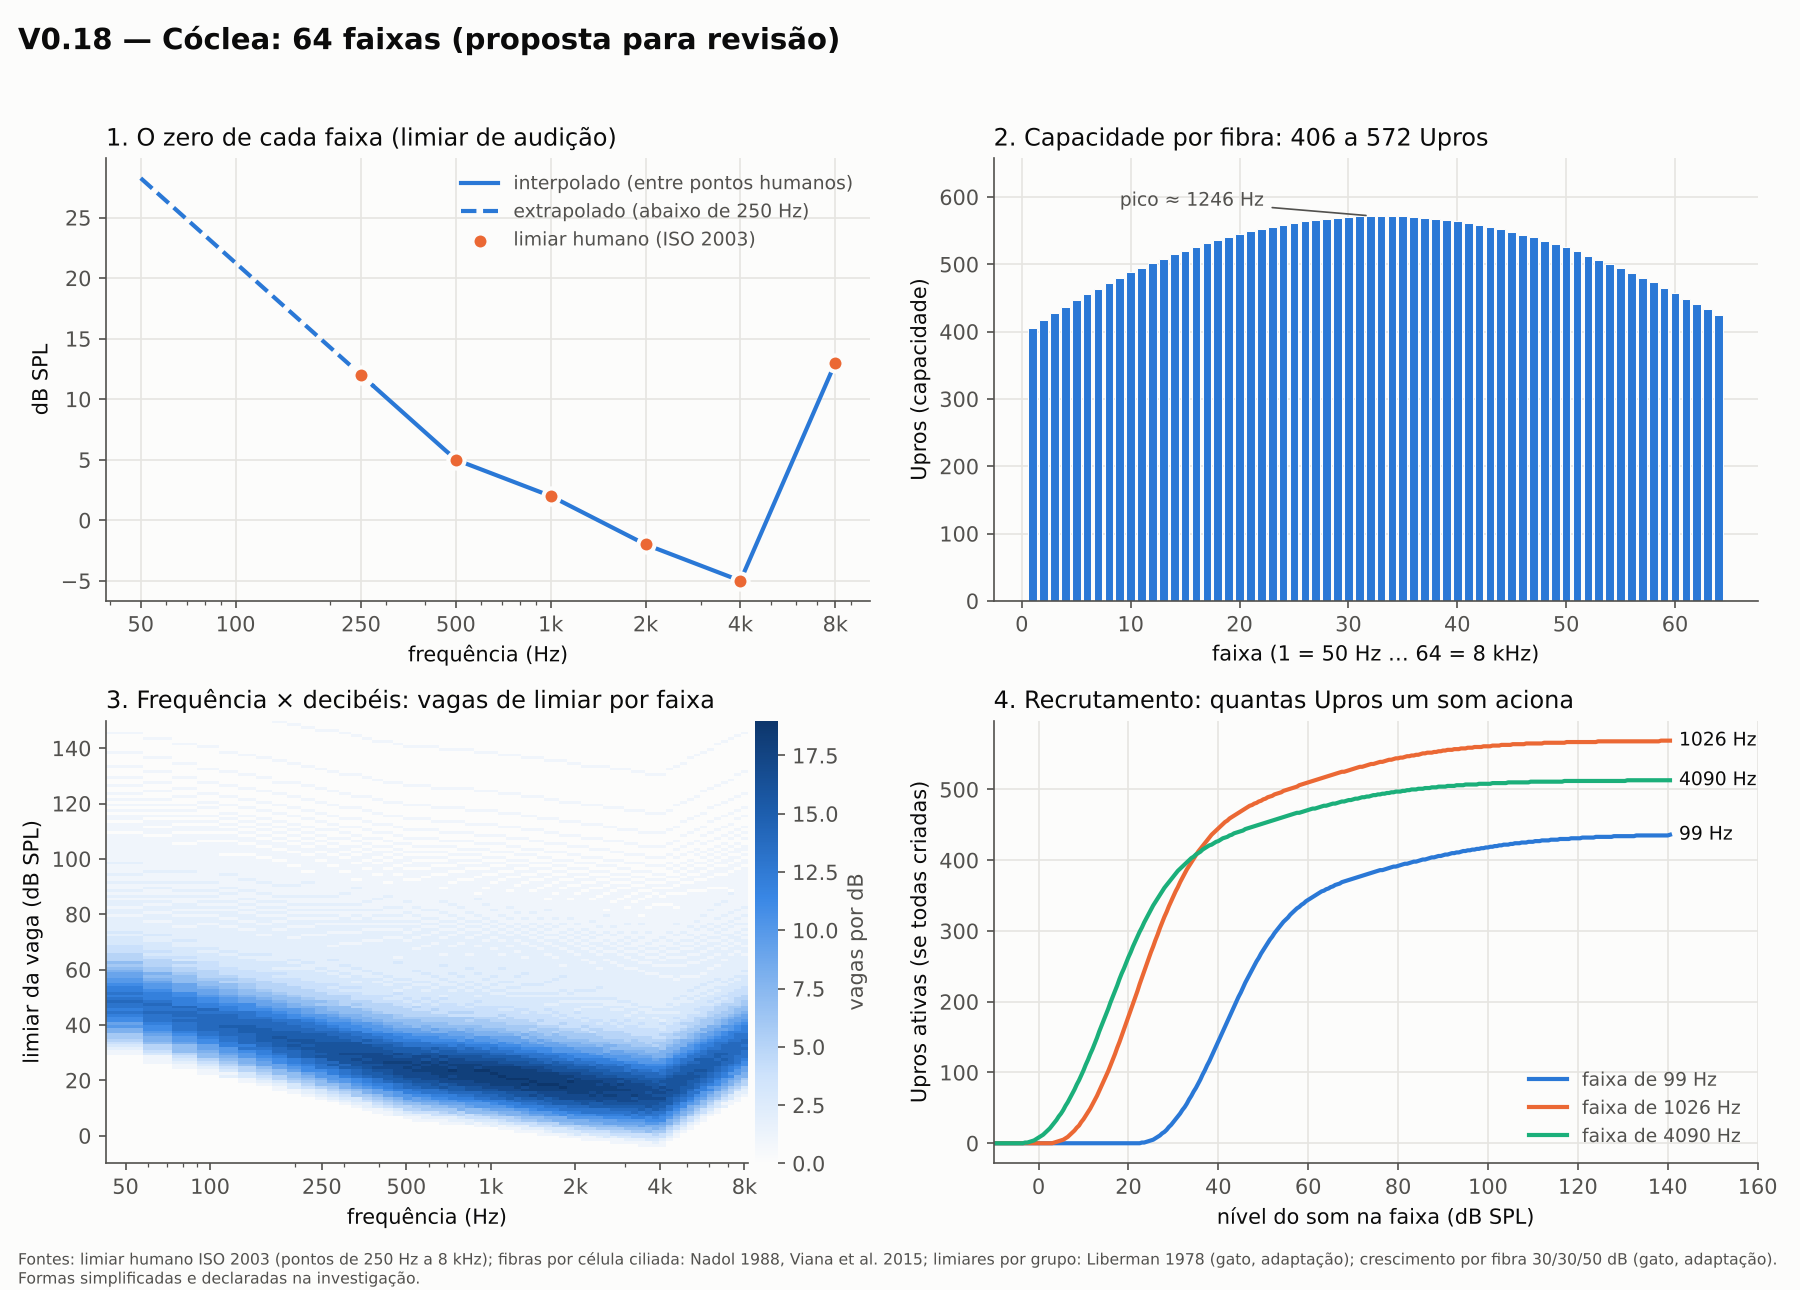
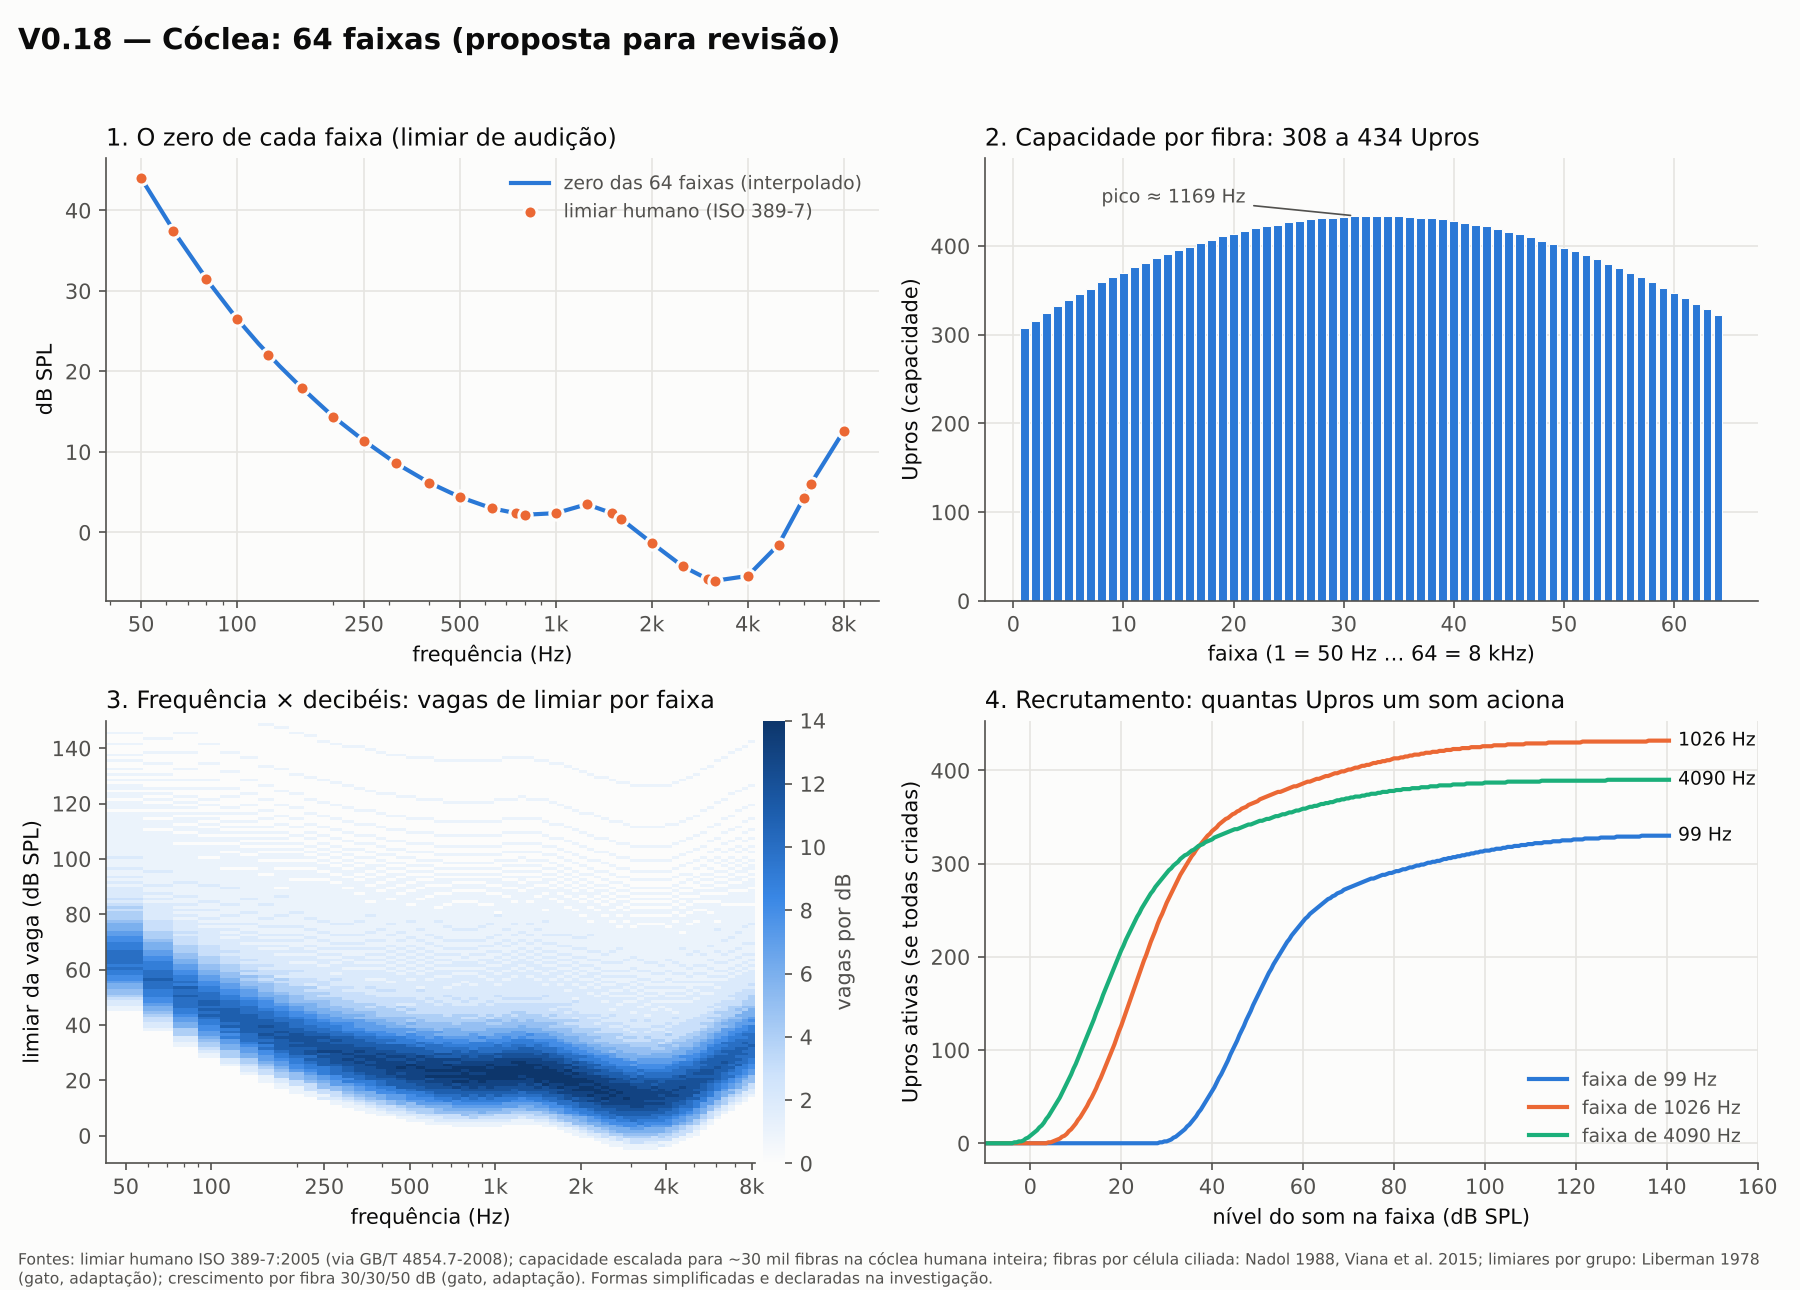
V0.18: zero pela tabela completa ISO 389-7; capacidade escalada a ≤ humano (308–434 por faixa)
Claude-Session: https://claude.ai/code/session_01NayBms6mB3fGg7oVZYfh6B

diff --git a/toy-experiments/v18/tabela_faixas.py b/toy-experiments/v18/tabela_faixas.py
@@ -14,20 +14,25 @@ Einv = lambda e: (10 ** (e / 21.4) - 1) * 1000 / 4.37
 ec = np.linspace(E(50), E(8000), 64); fc = Einv(ec)
 step = ec[1] - ec[0]; fe = Einv(np.concatenate(([ec[0] - step / 2], (ec[:-1] + ec[1:]) / 2, [ec[-1] + step / 2])))
 
-# --- zero de cada faixa: limiar humano (ISO 2003, tabela reproduzida em GreenFacts): interpolação em log da frequência;
-#     abaixo de 250 Hz, extrapolação linear com a inclinação de 250-500 Hz (perda declarada; provavelmente subestima)
-fiso = np.array([250, 500, 1000, 2000, 4000, 8000.0]); tiso = np.array([12, 5, 2, -2, -5, 13.0])
+# --- zero de cada faixa: limiar humano de referência em campo livre (ISO 389-7:2005, reproduzido de forma idêntica na
+#     GB/T 4854.7-2008, tabela 1; valores lidos por OCR, não conferidos com o original), interpolado em log da frequência
+fiso = np.array([20, 25, 31.5, 40, 50, 63, 80, 100, 125, 160, 200, 250, 315, 400, 500, 630, 750, 800, 1000, 1250, 1500, 1600, 2000,
+                 2500, 3000, 3150, 4000, 5000, 6000, 6300, 8000, 9000, 10000, 11200, 12500, 14000, 16000.0])
+tiso = np.array([78.5, 68.7, 59.5, 51.1, 44.0, 37.5, 31.5, 26.5, 22.1, 17.9, 14.4, 11.4, 8.6, 6.2, 4.4, 3.0, 2.4, 2.2, 2.4, 3.5, 2.4, 1.7, -1.3,
+                 -4.2, -5.8, -6.0, -5.4, -1.5, 4.3, 6.0, 12.6, 13.9, 13.9, 13.0, 12.3, 18.4, 40.2])
 lf = np.log2(fc)
 zero = np.interp(lf, np.log2(fiso), tiso)
-inc = (tiso[1] - tiso[0]) / (np.log2(500) - np.log2(250)); baixo = fc < 250
-zero[baixo] = tiso[0] + inc * (lf[baixo] - np.log2(250))
+baixo = np.zeros(64, bool)   # sem extrapolação: 50 Hz a 8 kHz estão dentro da tabela
 
 # --- capacidade: posição na cóclea (Greenwood 1990, humano: f = 165,4·(10^(2,1x) − 0,88); constantes de memória, padrão da área)
 X = lambda f: np.log10(f / 165.4 + 0.88) / 2.1
 dx = np.diff(X(fe)); xc = X(fc)
 ihc = 3500 * dx                                     # ~3.000-3.500 células ciliadas internas, densidade suposta uniforme
 porcel = 6.5 + (14 - 6.5) * np.sin(np.pi * xc)      # 6,5 nas pontas, 14 no meio (Nadol 1988; Viana et al. 2015); forma suposta
-cap = np.round(ihc * porcel).astype(int)
+# escala: "podemos ter menos que o humano, não mais" -> normaliza para ~30.000 fibras na cóclea humana inteira
+xs = np.linspace(0, 1, 100001); total_inteira = 3500 * np.mean(6.5 + (14 - 6.5) * np.sin(np.pi * xs))
+escala = min(1.0, 30000 / total_inteira)
+cap = np.floor(ihc * porcel * escala).astype(int)
 
 # --- vagas de limiar dentro da faixa (decisão B: limiares ⊛ crescimento de cada fibra); formas realistas + S, 30/30/50 dB
 dd = 0.01; x = np.arange(-20, 160, dd)
@@ -47,7 +52,7 @@ with open("tabela-faixas.csv", "w", newline="") as fh:
     for i in range(64):
         v = vagas(cap[i]) + zero[i]
         w.writerow([i + 1, round(fc[i], 1), round(zero[i], 1), "extrapolado" if baixo[i] else "interpolado", round(ihc[i], 1), round(porcel[i], 1), cap[i], round(v.min(), 1), round(v.max(), 1)])
-print("capacidade: mín", cap.min(), "máx", cap.max(), "total por ouvido", cap.sum(), "| zero: mín", round(zero.min(), 1), "máx", round(zero.max(), 1))
+print("escala", round(escala, 3), "| capacidade: mín", cap.min(), "máx", cap.max(), "total por ouvido", cap.sum(), "| zero: mín", round(zero.min(), 1), "máx", round(zero.max(), 1))
 
 # --- figura (paleta de referência: azul série 1, laranja série 2, aqua série 3; texto em tinta neutra)
 B1, O2, A3, TXT, TX2, GRID, SURF = "#2a78d6", "#eb6834", "#1baf7a", "#0b0b0b", "#52514e", "#e6e5e1", "#fcfcfb"
@@ -58,9 +63,9 @@ for a in ax.flat: a.set_facecolor(SURF); a.grid(True, color=GRID, lw=0.8); a.set
 tk = [50, 100, 250, 500, 1000, 2000, 4000, 8000]; tl = ["50", "100", "250", "500", "1k", "2k", "4k", "8k"]
 
 a = ax[0, 0]
-a.plot(fc[~baixo], zero[~baixo], color=B1, lw=2, label="interpolado (entre pontos humanos)")
-a.plot(fc[baixo | (np.roll(baixo, 1))], zero[baixo | (np.roll(baixo, 1))], color=B1, lw=2, ls="--", label="extrapolado (abaixo de 250 Hz)")
-a.scatter(fiso, tiso, s=60, color=O2, zorder=3, edgecolor=SURF, lw=2, label="limiar humano (ISO 2003)")
+a.plot(fc, zero, color=B1, lw=2, label="zero das 64 faixas (interpolado)")
+k = (fiso >= 50) & (fiso <= 8000)
+a.scatter(fiso[k], tiso[k], s=40, color=O2, zorder=3, edgecolor=SURF, lw=1.5, label="limiar humano (ISO 389-7)")
 a.set_xscale("log"); a.set_xticks(tk); a.set_xticklabels(tl); a.set_xlabel("frequência (Hz)"); a.set_ylabel("dB SPL")
 a.set_title("1. O zero de cada faixa (limiar de audição)", loc="left", color=TXT, fontsize=11.5)
 a.legend(frameon=False, fontsize=9, labelcolor=TX2)
@@ -93,6 +98,6 @@ a.legend(frameon=False, fontsize=9, labelcolor=TX2, loc="lower right"); a.set_xl
 a.set_title("4. Recrutamento: quantas Upros um som aciona", loc="left", color=TXT, fontsize=11.5)
 
 fig.suptitle("V0.18 — Cóclea: 64 faixas (proposta para revisão)", x=0.01, ha="left", fontsize=14, color=TXT, fontweight="bold")
-fig.text(0.01, 0.005, "Fontes: limiar humano ISO 2003 (pontos de 250 Hz a 8 kHz); fibras por célula ciliada: Nadol 1988, Viana et al. 2015; limiares por grupo: Liberman 1978 (gato, adaptação); "
+fig.text(0.01, 0.005, "Fontes: limiar humano ISO 389-7:2005 (via GB/T 4854.7-2008); capacidade escalada para ~30 mil fibras na cóclea humana inteira; fibras por célula ciliada: Nadol 1988, Viana et al. 2015; limiares por grupo: Liberman 1978 (gato, adaptação); "
          "crescimento por fibra 30/30/50 dB (gato, adaptação). Formas simplificadas e declaradas na investigação.", fontsize=7.5, color=TX2, wrap=True)
 fig.tight_layout(rect=(0, 0.03, 1, 0.96)); fig.savefig("tabela-faixas.png", dpi=150, facecolor=SURF)

diff --git a/toy-experiments/v18/investigacao-limiares-fibras.md b/toy-experiments/v18/investigacao-limiares-fibras.md
@@ -117,3 +117,8 @@ Script `tabela_faixas.py`; saídas `tabela-faixas.csv` e `tabela-faixas.png`.
 - **Capacidade:** posição na cóclea pela função de Greenwood humana (1990; constantes de memória), 3.500 células ciliadas internas com densidade uniforme, e fibras por célula indo de 6,5 nas pontas a 14 no meio (forma senoidal suposta, a partir dos extremos de Nadol 1988 e de Viana et al. 2015). Resultado: **406 a 572 Upros por faixa** (pico perto de 1,2–1,4 kHz); **33.116 por ouvido**.
 - **Inconsistência a declarar:** 33 mil por ouvido, numa faixa que cobre só ~77% da cóclea, passa dos ~30 mil do nervo humano inteiro (média adulta). O perfil de 6,5–14 por célula combinado com 3.500 células dá ~40 mil na cóclea toda. Para fechar com 30 mil, a capacidade cairia ~25% (≈ 300–430 por faixa). Decisão do responsável.
 - **Vagas de limiar:** decisão B (convolução), formas realistas + crescimento em S, 30/30/50 dB. As vagas mais altas passam de 140 dB SPL: vagas que, como previsto pelo responsável, provavelmente nunca serão criadas.
+
+### Ajustes pedidos pelo responsável (18/11)
+- **Graves:** "Ajuste a interpolação dos graves." O zero agora vem da **tabela completa** do limiar humano de referência em campo livre, **ISO 389-7:2005**, reproduzida de forma idêntica na norma chinesa GB/T 4854.7-2008 (tabela 1; valores lidos de uma página com OCR; alguns rótulos de frequência estavam embaralhados; **não conferidos com o original**). Valores entre 50 Hz e 8 kHz, por exemplo: 50 Hz **44,0**; 100 Hz **26,5**; 250 Hz **11,4**; 1 kHz **2,4**; 3,15 kHz **−6,0**; 4 kHz **−5,4**; 8 kHz **12,6** dB SPL. Não há mais extrapolação. A extrapolação anterior (28 dB a 50 Hz) subestimava o grave em 16 dB.
+- **Escala:** "Podemos ter menos que o humano, não mais. Não temos a mesma capacidade de processamento." O perfil foi escalado para dar ~30.000 fibras na cóclea humana inteira (fator 0,76). Resultado: **308 a 434 Upros por faixa**, **25.143 por ouvido** nas 64 faixas (que cobrem ~77% da cóclea).
+- **Pico em ~1,2 kHz, e não em ~4 kHz:** o pico de fibras por célula "no meio da cóclea" vem de Viana et al. 2015 (pessoas de 54 anos ou mais, já com perda pela idade). A **forma senoidal** e o lugar exato do pico são **suposições do assistente**. No camundongo, o número de sinapses por célula tem pico onde a cóclea é mais sensível (Meyer et al. 2009). No humano, a maior sensibilidade em 3–4 kHz é atribuída em grande parte à ressonância do canal do ouvido (de memória, a conferir), e não necessariamente à densidade de fibras. Para saber onde fica o pico humano, é preciso ler as figuras de Viana et al. 2015 ou de Wu et al. 2019.
